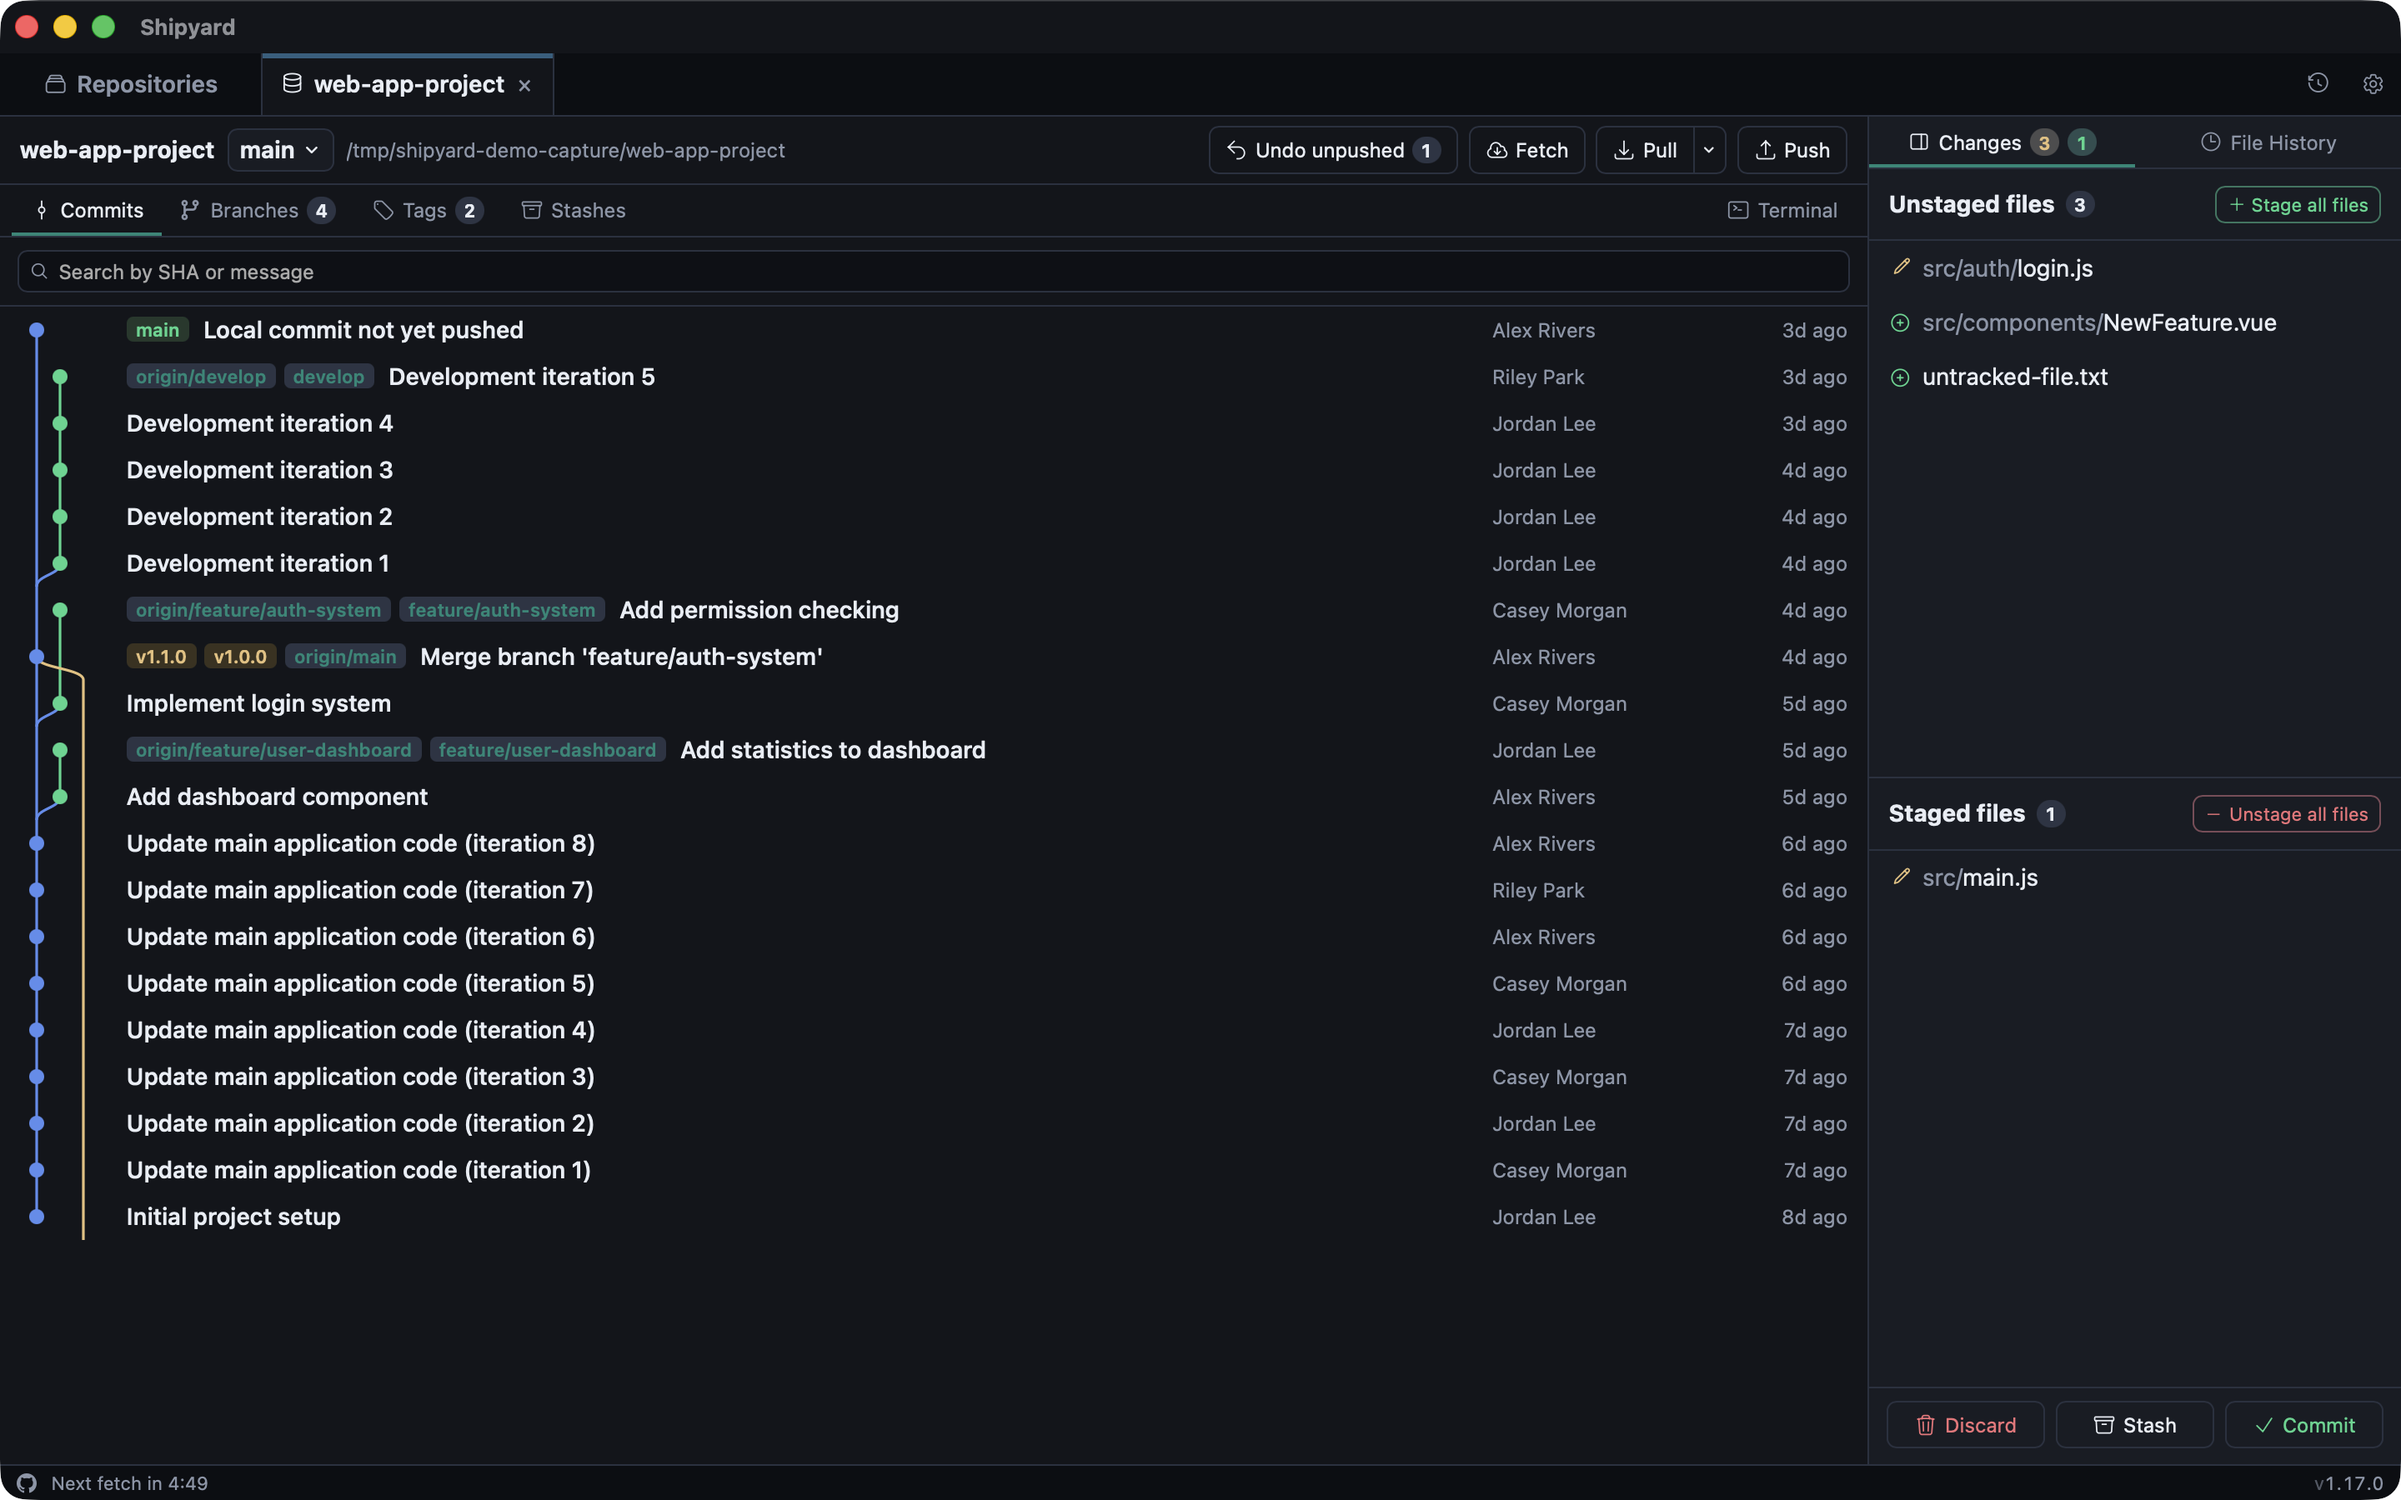
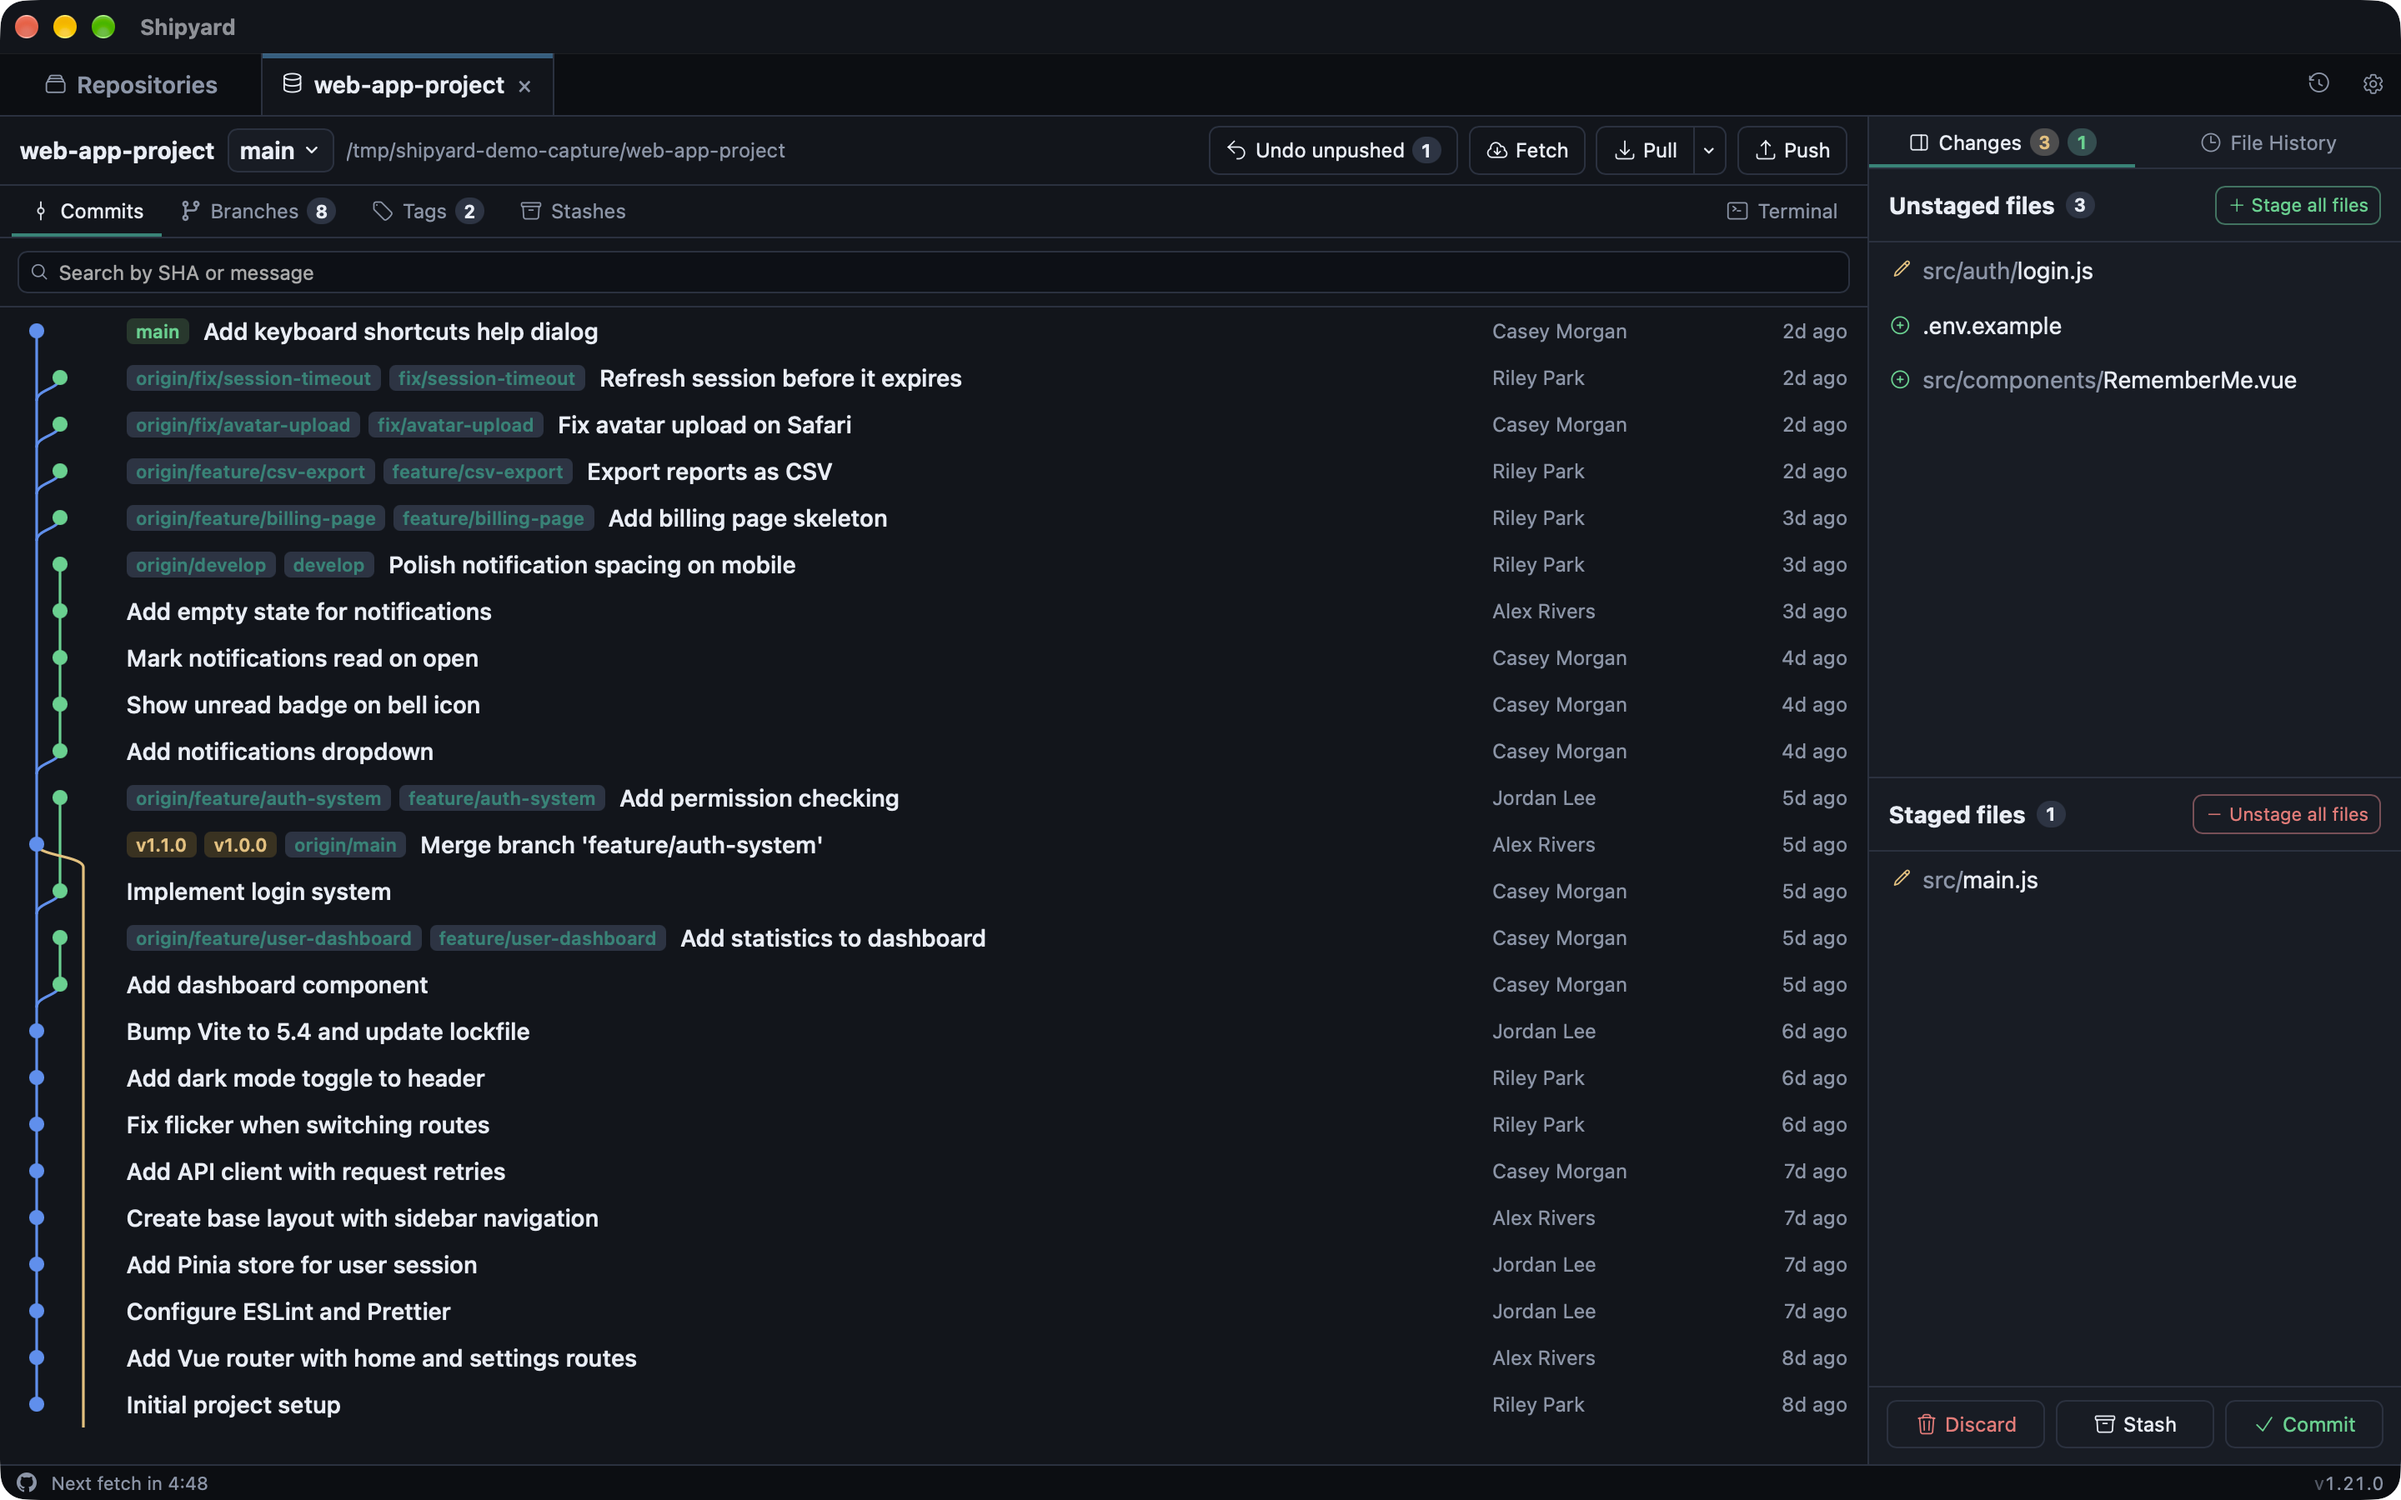
refresh readme screenshots and demo gif with realistic demo data

diff --git a/README.md b/README.md
@@ -69,7 +69,7 @@ Shipyard is designed for developers who manage multiple repositories and want a 
 
 ### Branch Management
 
-![Branch list with tracking information and merge status](docs/screenshots/04-branches.png)
+![Branch list with prefix groups, pinned branches, and merge status](docs/screenshots/04-branches.png)
 
 ### Repository Settings
 
